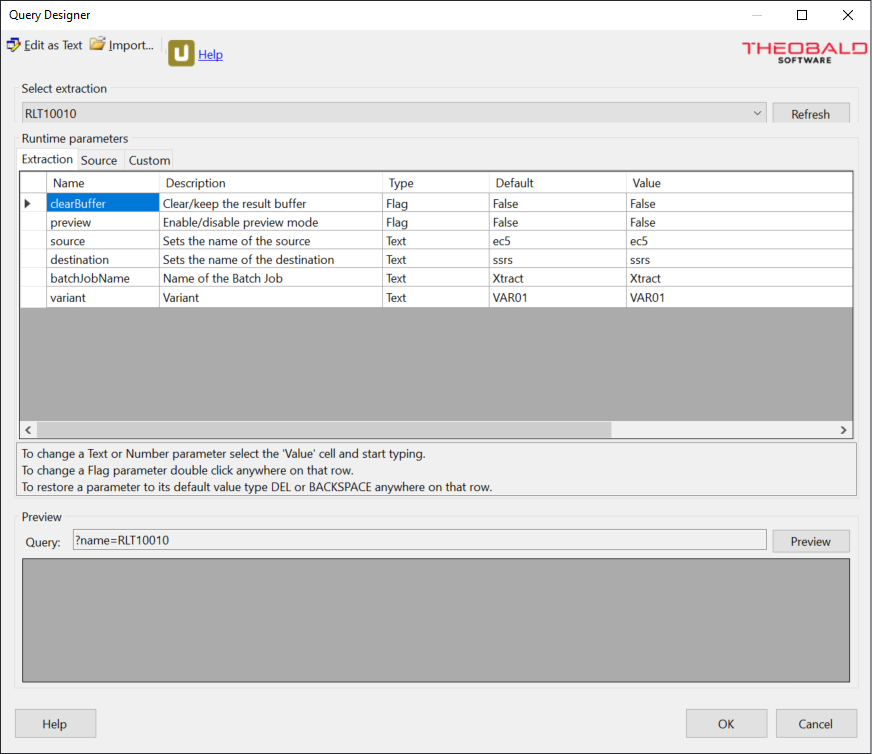
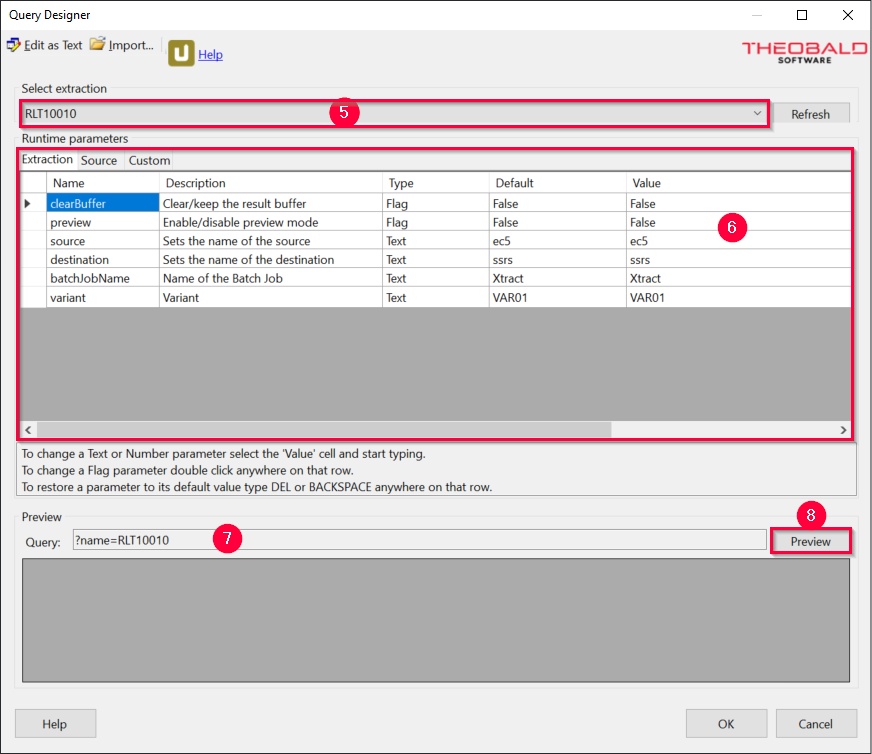
First Draft en

diff --git a/content/_en/xtract-universal/destinations/server-report-services/ssrs-in-vs.md b/content/_en/xtract-universal/destinations/server-report-services/ssrs-in-vs.md
@@ -11,41 +11,64 @@ lang: en_GB
 progressstate: 5
 ---
 
-The following section guides you through the creation of an SAP data source in the SQL Server Report Server (SSRS) environment. 
+The following section contains step-by-step instructions on how to access SAP data in the SQL Server Report Server (SSRS) environment via Xtract Universal.
 
-### Create an SSRS Extraction in XU Designer
+### Extract SAP Data in Xtract Universal Designer
 
-To use ... in Visual Studio, create an extraction in Xtract universal.
+To make SAP data available in the SQL Server Report Server (SSRS) environment, the first step is to create an extraction in the Xtract Universal Designer.
 
- {: .box-tip }
-**Tip:** Experienced users can   
+For information on how to set up an extraction, see [Getting Started](../../getting-started).<br>
+Make sure the extraction uses the [*SQL Server Report Server* destination](./connection).
 
 
-### Add an SSRS Extraction as a Data Source in Visual Studio
+### Add an Extraction as a Data Source in Visual Studio
 
-1. Create a new "Report Server Project" in VS. If *Reporting Services* is not available, make sure that the [*Microsoft Reporting Services Projects* extension](./requirements#installation) version 2.6.11 or higher is installed and activated in VS.
-![Destination-settings](/img/content/xu/ssrs/New-Project.png){:class="img-responsive"}
-2. Right-click on the **Shared Data Sources** folder in the *Solution Explorer* and select *Add New Data Source*. The window "Shared Data Source Properties" opens.
-3. In the tab *General*, assign a name for the new data source (optional), the default value is DataSource1 (1).
-4. Select the type *Xtract Universal* from the dropdown list (2). If *Xtract Universal* is not available or displayed in all caps, make sure that the latest Xtract Universal version and *Microsoft Reporting Services Projects* extension are both installed.
-5. Enter a *connection string* (3) in the format ```Url=http://[host]:[port]/``` e.g, ```Url=http://localhost.8065/```.
-![Destination-settings](/img/content/xu/ssrs/Shared-Data-Source-Properties.png){:class="img-responsive"}
-6. Optional: Switch to the *Credentials* tab (4) and enter your [Xtract Universal username and password](../../security/user-management).
+The following steps guide you through the creation of an Xtract Universal data source in Visual Studio: 
+
+1. Create a new "Report Server Project" in Visual Studio. <br>If *Reporting Services* is not available, make sure that the [*Microsoft Reporting Services Projects* extension](./requirements#installation) version 2.6.11 or higher is installed and activated in VS.
+![New-Project](/img/content/xu/ssrs/New-Project.png){:class="img-responsive"}
+2. Right-click on the *Shared Data Sources* folder in the *Solution Explorer* and select **Add New Data Source**. The window "Shared Data Source Properties" opens.
+3. In the tab *General*, assign a name for the new data source (optional), the default value is *DataSource1* (1).
+4. Select the type *Xtract Universal* from the dropdown list (2). <br>If *Xtract Universal* is not available or displayed in all caps, make sure that the latest Xtract Universal version and *Microsoft Reporting Services Projects* extension are both installed.
+5. Enter a *connection string* (3) in the format `Url=http://[host]:[port]/` e.g, `Url=http://localhost.8065/`.
+![Shared-Data-Source-Properties](/img/content/xu/ssrs/Shared-Data-Source-Properties.png){:class="img-responsive"}
+6. Optional: Switch to the *Credentials* tab (4) and enter your [username and password](../../security/user-management) for Xtract Universal.
 7. Confirm your input with **[OK]**.
 
- {: .box-note }
-**Note:** If *Xtract Universal* is not available... Log file from to mailto support... 
-Microsoft Reporting Services Projects extension is installed and activated in VS
-
+If *Xtract Universal* is not available in the dropdown list (2) even though the *Microsoft Reporting Services Projects* extension (version 2.6.11 or higher) and the latest version of Xtract Universal are both installed, send the log.txt file in `C:\Program Files\XtractUniversal\ssrs\log.txt` to [Theobald Support](mailto:support@theobald-software.com).
 
  {: .box-note }
-**Note:** Depending on the settings of Xtract Universal's [Web server](../../server/server-settings#web-server] use either ```http://``` or ```https://``` in the connection string.
+**Note:** Depending on the settings of XU's [Web server](../../server/server-settings#web-server] use either `http://` or `https://` in the connection string.
 
 
-### Create a new Report
+### Create a Report using an Xtract Universal Data Source
 
-1. [Add an SSRS extraction as a data source in Visual Studio](./ssrs-in-vs/#add-an-ssrs-extraction-as-a-data-source-in-visual-studio).
-2. Right-click on the **Reports** folder in the *Solution Explorer* and select *Add New Report*. The "Report Wizard" opens.
+The following steps guide you through the creation of a Report in Visual Studio using an Xtract Universal data source: 
+
+1. [Add an SSRS extraction as a data source in Visual Studio](./ssrs-in-vs/#add-an-extraction-as-a-data-source-in-visual-studio).
+2. Right-click on the *Reports* folder in the *Solution Explorer* and select **Add New Report**. The "Report Wizard" opens.
 3. In the wizard, select a data source and click **[Next]**.
 4. Click **[Query Builder...]**. The window "Query Designer" opens.
-5. Select an extraction from Xtract Universal from the dropdown menu. If no extractions are available, make sure
+5. Select an extraction from Xtract Universal from the dropdown menu (5). <br>If no extractions are available, make sure the *connection string* (3) in the data source is correct and an extraction with an *SQL Server Report Server* destination exists in Xtract Universal.
+If **Edit as Text** is active, click **Edit as Text** again to switch to the XU settings shown below.
+![Query-Designer](/img/content/xu/ssrs/Query-Designer.png){:class="img-responsive"}
+6. Optional: Change [runtime parameters](../../execute-and-automate-extractions/extraction-parameters) of the extraction (6). Parameter changes are visible in the Query string (7).
+Invalid input is marked with a red circle.
+7. Click **[Preview]** (8) to run the extraction in preview mode. If the runtime parameter *preview* is set to True, the preview shows the actual data of the extraction.
+8. Confirm your input with **[OK]**. The Query Builder closes. 
+9. Make sure the Query string from the Query Builder is displayed in the Report Wizard before clicking **[Next]**.
+![Report-Wizard](/img/content/xu/ssrs/Report-Wizard.png){:class="img-responsive"}
+10. Complete the Report Wizard according to your preferences.
+
+After creating the report, you can access the Query Builder by right-clicking the *Dataset* in *Report Data* and selecting **Query...**.
+
+ {: .box-tip }
+**Tip:** Experienced users can enter the Query string directly in the Report Wizard without using the Query Builder.
+
+{: .box-note }
+**Note:** If *Xtract Universal* is not available in the dropdown list (2) even though the *Microsoft Reporting Services Projects* extension (version 2.6.11 or higher) and the latest version of Xtract Universal are both installed, send the log.txt file in `C:\Program Files\XtractUniversal\ssrs\log.txt` to [Theobald Support](mailto:support@theobald-software.com).
+
+
+#### Related Links
+- [Report Design Tips](https://docs.microsoft.com/en-us/sql/reporting-services/report-design/report-design-tips-report-builder-and-ssrs?view=sql-server-ver15)
+- [Reporting Services Tutorials (SSRS)](https://docs.microsoft.com/en-us/sql/reporting-services/reporting-services-tutorials-ssrs?view=sql-server-ver15)

diff --git a/content/_en/xtract-universal/destinations/server-report-services/requirements.md b/content/_en/xtract-universal/destinations/server-report-services/requirements.md
@@ -35,13 +35,16 @@ To install the Xtract Universal extension on multiple environments without insta
 1. Make sure the *Microsoft Reporting Services Projects* extension for Visual Studio is already installed and activated. 
 2. Close Visual Studio.
 2. [Install Xtract Universal](../../introduction/installation-and-update) on the environment on which the license runs.
-2. After the installation is complete, navigate to the Xtract Universal directory e.g., ```C:\Program files\Xtract Universal\```.
-3. Copy the ```\ssrs```folder from the directory to any environment on which Visual Studio is used to design reports or on which the Report Server runs.
+2. After the installation is complete, navigate to the Xtract Universal directory e.g., `C:\Program files\Xtract Universal\`.
+3. Copy the `\ssrs`folder from the directory to any environment on which Visual Studio is used to design reports or on which the Report Server runs.
 4. Run *SSRSDataExtensionSetup.exe* as administrator to install the Xtract Universal extension for Visual Studio and the Report Server. 
 5. After the installation is complete, restart the Report Server.
 
- {: .box-note }
-**Note:** To uninstall the Data Extension use the *uninstall.bat* file from the ```\ssrs```folder in the Xtract universal directory.  
+To uninstall the Data Extension use the *uninstall.bat* file from the `\ssrs`folder in the Xtract universal directory.  
+
+{: .box-note }
+**Note:** Should you encounter issues with the installation of the Xtract Universal extension, send the log.txt file in `C:\Program Files\XtractUniversal\ssrs\log.txt` to [Theobald Support](mailto:support@theobald-software.com).
+
 
 <!--- After installation of Xtract Universal the setup creates the following entries and extensions in the Alteryx installation directory:
 - `Alteryx\Settings\AdditionalPlugins\XtractUniversal.ini`
